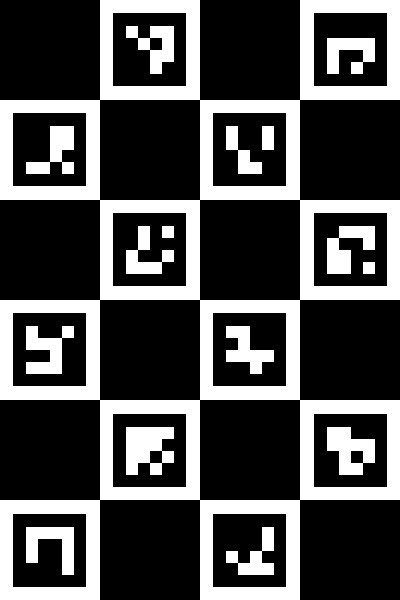
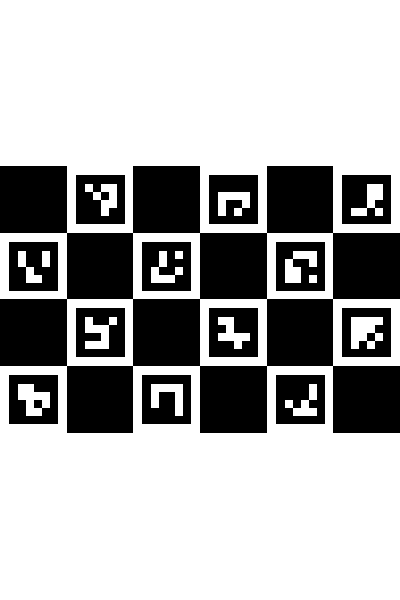
sync for vaideesh

diff --git a/estimator/estimate_ar_charuco.py b/estimator/estimate_ar_charuco.py
@@ -1,0 +1,221 @@
+import cv2
+import os
+import toml
+import numpy as np
+import time
+import argparse
+import sys
+from picamera2 import Picamera2
+import libcamera
+
+# Default frame size if not specified in config
+WIDTH = 1280
+HEIGHT = 800
+
+class RealtimeFisheyeAprilTagTracker:
+    def __init__(self, config_path):
+        self.config_path = config_path
+        self._load_config()
+        self._init_camera()
+        self._init_undistortion_maps()
+        self._init_detector()
+
+    def _load_config(self):
+        """Loads calibration and application settings from the TOML config file."""
+        if not os.path.exists(self.config_path):
+            raise FileNotFoundError(f"Configuration file not found: {self.config_path}")
+            
+        print(f"Loading configuration from: {self.config_path}")
+        with open(self.config_path, "r", encoding="utf-8") as f:
+            self.config = toml.load(f)
+
+        # Camera Intrinsics
+        self.camera_matrix = np.array(self.config["calibration"]["camera_matrix"])
+        self.dist_coeffs = np.array(self.config["calibration"]["dist_coeffs"])
+        self.resolution = tuple(self.config["camera"]["resolution"])
+        global WIDTH, HEIGHT
+        WIDTH, HEIGHT = self.resolution
+
+        # Aruco/AprilTag Settings
+        self.marker_length = 0.07
+        # Use a default marker length if not properly set
+        if not isinstance(self.marker_length, (int, float)) or self.marker_length <= 0:
+             self.marker_length = 0.07 # 5cm default
+             
+        # Display settings
+        self.display = self.config.get("display", {}).get("display", True)
+
+        # table reference frame
+        _pth = r"/home/sujith/Documents/NOARK_backbone/estimator/charuco_pose/charuco_pose.toml"
+        with open(_pth, "r", encoding="utf-8") as f:    
+            self.table_reference_frame = toml.load(f)
+
+        # Load the rotation matrix and translation vector from the TOML file
+        self.R = np.array(self.table_reference_frame["rotation_matrix"])
+        self.tvec = np.array(self.table_reference_frame["tvec"])
+
+    def _init_camera(self):
+        """Initializes the Picamera2 instance with OV9281 specific settings."""
+        print(f"Initializing Picamera2 for resolution {WIDTH}x{HEIGHT}...")
+        self.picam2 = Picamera2()
+        main_config = {"format": "YUV420", "size": (WIDTH, HEIGHT)}
+        
+        # Exposure / Framerate settings from reference
+        controls = {"FrameRate": 100, "ExposureTime": 3000}
+        
+        config = self.picam2.create_video_configuration(
+            main_config, 
+            controls=controls, 
+            transform=libcamera.Transform(vflip=1)
+        )
+        
+        self.picam2.configure(config)
+        self.picam2.start()
+        print("Camera initialized and started.")
+
+    def _init_undistortion_maps(self):
+        """Pre-computes the undistortion maps for the fisheye lens."""
+        print("Pre-computing fisheye undistortion maps...")
+        
+        # We compute a new camera matrix. 
+        # Using balance=0.0 to retain only valid pixels (no black borders) if desired, 
+        # or balance=1.0 to retain all pixels (some might be black).
+        # We'll stick to a balance of 0.5 as a middle ground for 160 FOV.
+        self.new_camera_matrix = cv2.fisheye.estimateNewCameraMatrixForUndistortRectify(
+            self.camera_matrix, 
+            self.dist_coeffs, 
+            self.resolution, 
+            np.eye(3), 
+            balance=1.0
+        )
+        
+        self.map1, self.map2 = cv2.fisheye.initUndistortRectifyMap(
+            self.camera_matrix, 
+            self.dist_coeffs, 
+            np.eye(3), 
+            self.new_camera_matrix, 
+            self.resolution, 
+            cv2.CV_16SC2
+        )
+        print("Undistortion maps ready.")
+
+    def _init_detector(self):
+        """Initializes the AprilTag detector."""
+        # The user confirmed DICT_APRILTAG_36h11
+        print("Initializing AprilTag (36h11) detector...")
+        dictionary = cv2.aruco.getPredefinedDictionary(cv2.aruco.DICT_APRILTAG_36h11)
+        parameters = cv2.aruco.DetectorParameters()
+        
+        # Optimize detection parameters if necessary based on environment
+        # parameters.cornerRefinementMethod = cv2.aruco.CORNER_REFINE_SUBPIX
+        
+        self.detector = cv2.aruco.ArucoDetector(dictionary, parameters)
+
+    def process_frame(self):
+        """Main processing loop."""
+        print("Starting real-time processing loop. Press 'q' to quit.")
+        
+        prev_time = time.time()
+        fps_filter = 0.0
+
+        try:
+            while True:
+                # Capture YUV420 and extract the Y (grayscale) channel
+                frame = self.picam2.capture_array()
+                # The format is YUV420. The first (HEIGHT x WIDTH) bytes are the Y channel.
+                gray_image = frame[:HEIGHT, :WIDTH]
+                # print(gray_image.shape)
+                
+                # Flip horizontally to match the reference recorder.py
+                gray_image = cv2.flip(gray_image, 1)
+
+                # Undistort the entire image
+                undistorted_gray = cv2.remap(
+                    gray_image, 
+                    self.map1, 
+                    self.map2, 
+                    interpolation=cv2.INTER_LINEAR, 
+                    borderMode=cv2.BORDER_CONSTANT
+                )
+
+                # Detect markers
+                corners, ids, rejected = self.detector.detectMarkers(undistorted_gray)
+                display_img = cv2.cvtColor(undistorted_gray, cv2.COLOR_GRAY2BGR)
+
+                if ids is not None:
+                    # Draw bounding boxes
+                    cv2.aruco.drawDetectedMarkers(display_img, corners, ids)
+                    
+                    # Estimate pose for each marker
+                    # Note: OpenCV >= 4.7 uses solvePnP instead of estimatePoseSingleMarkers
+                    # We build an object points array for a single marker
+                    marker_len = self.marker_length
+                    obj_points = np.array([
+                        [-marker_len / 2, marker_len / 2, 0],
+                        [marker_len / 2, marker_len / 2, 0],
+                        [marker_len / 2, -marker_len / 2, 0],
+                        [-marker_len / 2, -marker_len / 2, 0]
+                    ], dtype=np.float32)
+
+                    for i in range(len(ids)):
+                        # Solve PnP using the NEW camera matrix (since the image is undistorted)
+                        success, rvec, tvec = cv2.solvePnP(
+                            obj_points, 
+                            corners[i][0], 
+                            self.new_camera_matrix, 
+                            None, # No distortion coeffs, image is already undistorted
+                            flags=cv2.SOLVEPNP_IPPE_SQUARE
+                        )
+                        
+                        if success:
+                            # Draw axis
+                            cv2.drawFrameAxes(
+                                display_img, 
+                                self.new_camera_matrix, 
+                                None, 
+                                rvec, 
+                                tvec, 
+                                length=marker_len * 0.5, 
+                                thickness=2
+                            )
+                            
+                            # Print pose (optional, can be noisy in terminal)
+                            transformed_tvec = self.R.T @ (tvec.reshape((3,1)) - self.tvec.reshape((3,1)))
+                            print(f"Marker {ids[i][0]}: tvec={transformed_tvec.ravel()}, rvec={rvec.ravel()}")
+                cv2.imshow('asdf',display_img)
+
+                if cv2.waitKey(1) & 0xFF == ord('q'):
+                    break
+
+        except KeyboardInterrupt:
+            print("\nStopped by user.")
+        finally:
+            self.cleanup()
+
+    def cleanup(self):
+        """Releases camera resources and destroys windows."""
+        print("Cleaning up resources...")
+        self.picam2.stop()
+        if self.display:
+            cv2.destroyAllWindows()
+
+if __name__ == "__main__":
+    parser = argparse.ArgumentParser(description="Realtime Fisheye AprilTag detection using Picamera2")
+    parser.add_argument(
+        "-c", "--config", 
+        help="Path to the TOML configuration file", 
+        default=os.path.join(os.path.dirname(__file__), "..", "notebooks", "calibration", "output", "good.toml")
+    )
+    args = parser.parse_args()
+
+    # Create absolute path if relative
+    config_path = args.config
+    if not os.path.isabs(config_path):
+        config_path = os.path.abspath(config_path)
+
+    try:
+        tracker = RealtimeFisheyeAprilTagTracker(config_path)
+        tracker.process_frame()
+    except Exception as e:
+        print(f"Error: {e}")
+        sys.exit(1)

diff --git a/estimator/charuco_estimator.py b/estimator/charuco_estimator.py
@@ -13,7 +13,7 @@ WIDTH = 1280
 HEIGHT = 800
 
 class RealtimeCharucoTracker:
-    def __init__(self, config_path, squares_x=4, squares_y=6, square_length=0.026, marker_length=0.019, dict_id=cv2.aruco.DICT_4X4_1000):
+    def __init__(self, config_path, squares_x=6, squares_y=4, square_length=0.026, marker_length=0.019, dict_id=cv2.aruco.DICT_4X4_50):
         self.config_path = config_path
         
         # ChArUco Board Parameters
@@ -101,12 +101,12 @@ class RealtimeCharucoTracker:
         
         # Create the ChArUco Board object
         self.board = cv2.aruco.CharucoBoard(
-            (self.squares_x, self.squares_y), 
+            (6, 4), 
             self.square_length, 
             self.marker_length, 
             self.dictionary
         )
-        self.board.setLegacyPattern(True)
+        # self.board.setLegacyPattern(True)
         # Detector Parameters
         self.detector_params = cv2.aruco.DetectorParameters()
         self.detector = cv2.aruco.ArucoDetector(self.dictionary, self.detector_params)
@@ -148,9 +148,11 @@ class RealtimeCharucoTracker:
                 
                 # Interpolate Charuco Corners
                 # Notice we use the standard API for OpenCV 4.7+
+                # charuco_corners, charuco_ids, marker_corners, marker_ids = self.charuco_detector.detectBoard(undistorted_gray)
                 charuco_corners, charuco_ids, marker_corners, marker_ids = self.charuco_detector.detectBoard(undistorted_gray)
                 
-                print(charuco_ids)
+                # print(self.new_camera_matrix)
+                # print(charuco_ids)
                 if charuco_corners is not None and charuco_ids is not None and len(charuco_ids) >= 4:
                     # Draw the detected charuco corners
                     cv2.aruco.drawDetectedCornersCharuco(display_img, charuco_corners, charuco_ids, (0, 0, 255))
@@ -161,14 +163,11 @@ class RealtimeCharucoTracker:
                         charuco_corners, 
                         charuco_ids, 
                         self.board, 
-                        self.new_camera_matrix, 
-                        None, # No dist_coeffs
+                        self.new_camera_matrix,
+                        # np.eye(3), 
+                        np.zeros((4,1)), # No dist_coeffs
                         None, None
                     )
-
-                    print(success)
-                    print(self.rvec)
-                    print(self.tvec)
 
                     
                     if success:
@@ -183,7 +182,7 @@ class RealtimeCharucoTracker:
                             thickness=2
                         )
                         # Print pose
-                    print(success)
+                    # print(success)
                     print(f"ChArUco Pose: tvec={self.tvec.ravel().round(3)}, rvec={self.rvec.ravel().round(3)}")
 
 
@@ -208,6 +207,7 @@ class RealtimeCharucoTracker:
             "dist_coeffs": self.dist_coeffs.tolist(),
             "rvec": rvec.tolist(),
             "tvec": tvec.tolist(),
+            'rotation_matrix': cv2.Rodrigues(rvec)[0].tolist(),
         }
 
         output_dir = "/home/sujith/Documents/NOARK_backbone/estimator/charuco_pose"

diff --git a/estimator/charco_board.py b/estimator/charco_board.py
@@ -4,8 +4,8 @@ import cv2
 # The units (meters, mm, etc.) don't affect the PNG generation directly but are stored in the board object.
 square_length = 0.026  # checker size
 marker_length = 0.019  # aruco size
-squares_x = 6          # columns
-squares_y = 4          # rows
+squares_x = 4          # columns
+squares_y = 6          # rows
 
 # 2. Select the ArUco Dictionary (4x4)
 aruco_dict = cv2.aruco.getPredefinedDictionary(cv2.aruco.DICT_4X4_50)
@@ -17,7 +17,7 @@ board = cv2.aruco.CharucoBoard((squares_y, squares_x), square_length, marker_len
 
 # 4. Generate the Image
 # Define the output image size in pixels (e.g., 1000x1500 for a 4x6 ratio)
-image_size = (400, 600)
+image_size = (800, 1200)
 charuco_image = board.generateImage(image_size)
 
 # 5. Save to PNG
